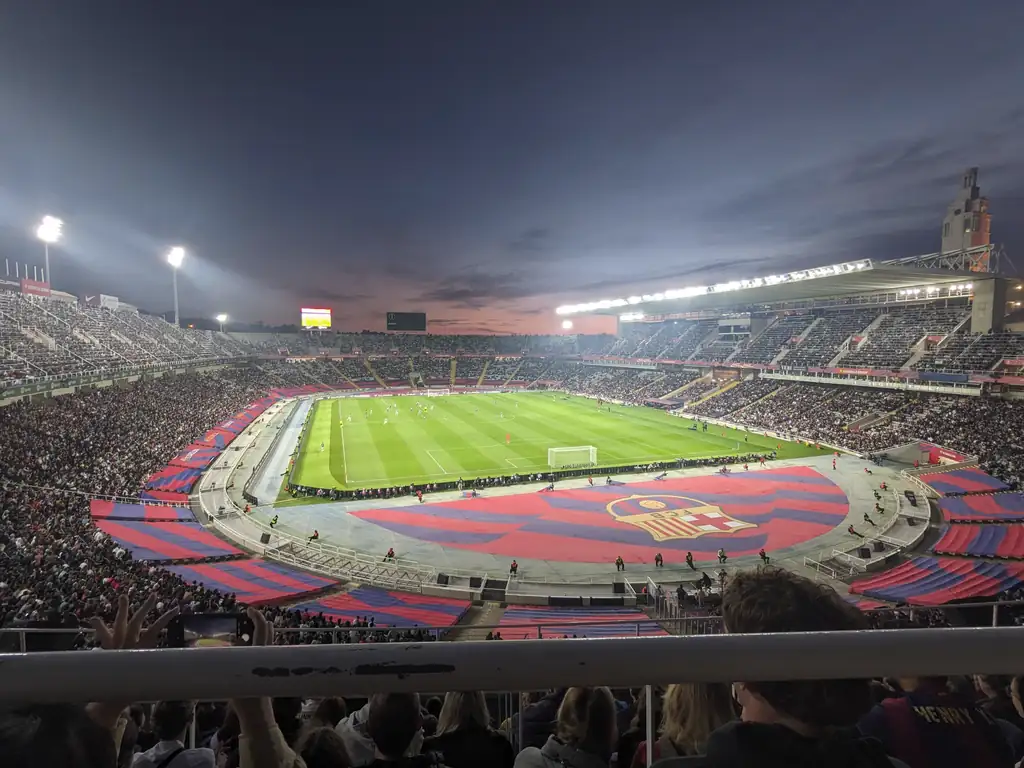
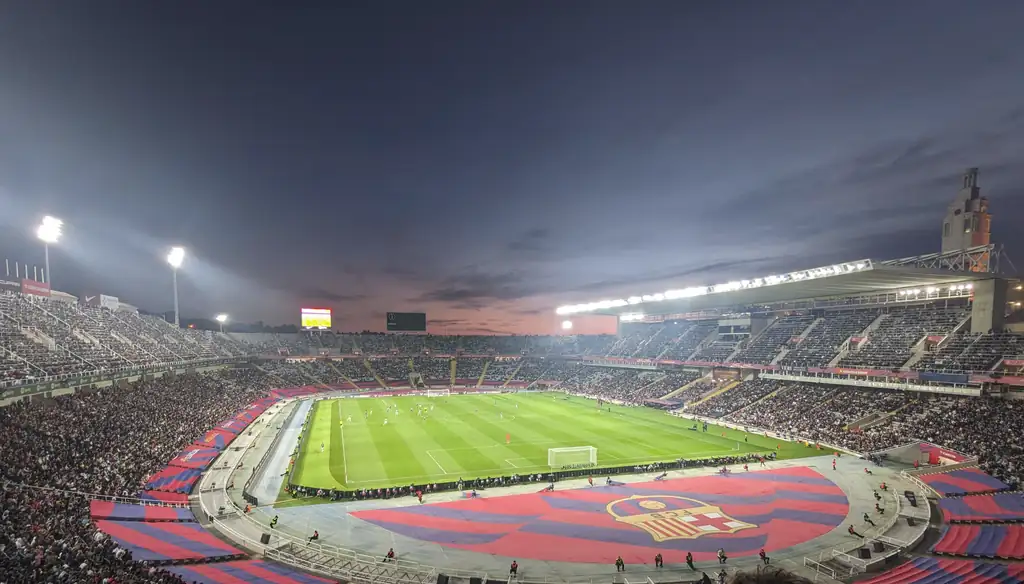
Paysages : corrections de Joan sur les lots 2 à 4
Stade rogné sous la rambarde (spectateurs) ; lo forgon pour le fourgon
aménagé, sans la table coupée ; floutages à bord adouci et petit mot manuscrit
flouté sur la photo du sapin ; la vapor sur la paella ; l'immòble pour les
immeubles ; « El tiempo que hace », « El temps que fa ».

diff --git a/app/src/lib/paisatges/paisatges.js b/app/src/lib/paisatges/paisatges.js
@@ -134,7 +134,9 @@ export const MOTS = {
 	'lo solelh': 'le soleil',
 	'la baranda': 'la rambarde',
 	// 06-11, lot 4 (fèstas e lésers) : lo Congrès (sapin → sap en lengadoc, drapeau → drapèl, cheminée → cheminièra, rail → ralh, manège → manètge), genre d'après lo Basic
-	'lo camion': 'le camion',
+	'lo forgon': 'le fourgon',
+	'l’immòble': 'l’immeuble',
+	'la vapor': 'la vapeur',
 	'l’escala': 'l’échelle',
 	'lo ralh': 'le rail',
 	'lo sap': 'le sapin',
@@ -1016,7 +1018,7 @@ export const PAISATGES = [
 		mots: [
 			['lo ris', 0.3, 0.88],
 			['la cambaròta', 0.77, 0.51],
-			['lo fum', 0.4, 0.18]
+			['la vapor', 0.4, 0.18]
 		]
 	},
 	{
@@ -1182,9 +1184,8 @@ export const PAISATGES = [
 		h: 1440,
 		alt: 'Un fourgon aménagé garé dans un pré, toutes portes ouvertes : un lit à l’arrière, une table pliante à côté, de grands arbres derrière.',
 		mots: [
-			['lo camion', 0.35, 0.38],
+			['lo forgon', 0.35, 0.38],
 			['la pòrta', 0.78, 0.45],
-			['la taula', 0.95, 0.65],
 			['l’èrba', 0.3, 0.88],
 			['l’arbre', 0.5, 0.1]
 		]
@@ -1199,7 +1200,7 @@ export const PAISATGES = [
 		mots: [
 			['la piscina', 0.5, 0.5],
 			['l’escala', 0.91, 0.6],
-			['l’ostal', 0.77, 0.1],
+			['l’immòble', 0.77, 0.1],
 			['l’arbre', 0.26, 0.24]
 		]
 	},
@@ -1253,7 +1254,7 @@ export const PAISATGES = [
 		alt: 'Une rue piétonne décorée de milliers de boules roses et bleues suspendues, entre un immeuble de brique et de pierre blanche.',
 		mots: [
 			['la bòla', 0.3, 0.81],
-			['l’ostal', 0.72, 0.35],
+			['l’immòble', 0.72, 0.35],
 			['lo cèl', 0.3, 0.14],
 			['l’arbre', 0.15, 0.51]
 		]
@@ -1320,13 +1321,13 @@ export const PAISATGES = [
 		tema: 'festas',
 		amples: [1024, 1920],
 		l: 1920,
-		h: 1440,
+		h: 1094,
 		alt: 'Un grand stade de football plein à la tombée du jour : la pelouse sous les projecteurs, des tribunes peintes de bleu et de rouge.',
 		mots: [
-			['l’estadi', 0.84, 0.47],
-			['l’èrba', 0.62, 0.56],
-			['lo projector', 0.05, 0.29],
-			['lo cèl', 0.5, 0.1]
+			['l’estadi', 0.84, 0.618],
+			['l’èrba', 0.62, 0.737],
+			['lo projector', 0.05, 0.382],
+			['lo cèl', 0.5, 0.132]
 		]
 	},
 	// ── Lot 5 des thèmes : compléments de la mar e la montanha (06-11) ──
@@ -1607,7 +1608,7 @@ export const TEMAS = [
 	{ id: 'vila', nom: { oc: 'La vila', fr: 'La ville', es: 'La ciudad', en: 'The town', ca: 'La ciutat', ar: 'المدينة' } },
 	{ id: 'monuments', nom: { oc: 'Los monuments', fr: 'Les monuments', es: 'Los monumentos', en: 'Landmarks', ca: 'Els monuments', ar: 'المعالم' } },
 	{ id: 'taula', nom: { oc: 'A taula', fr: 'À table', es: 'A la mesa', en: 'At the table', ca: 'A taula', ar: 'على المائدة' } },
-	{ id: 'temps', nom: { oc: 'Lo temps que fa', fr: 'Le temps qu’il fait', es: 'El tiempo', en: 'The weather', ca: 'El temps', ar: 'الطقس' } },
+	{ id: 'temps', nom: { oc: 'Lo temps que fa', fr: 'Le temps qu’il fait', es: 'El tiempo que hace', en: 'The weather', ca: 'El temps que fa', ar: 'الطقس' } },
 	{ id: 'festas', nom: { oc: 'Fèstas e lésers', fr: 'Fêtes et loisirs', es: 'Fiestas y ocio', en: 'Festivities and leisure', ca: 'Festes i lleure', ar: 'الأعياد والترفيه' } }
 ];
 
